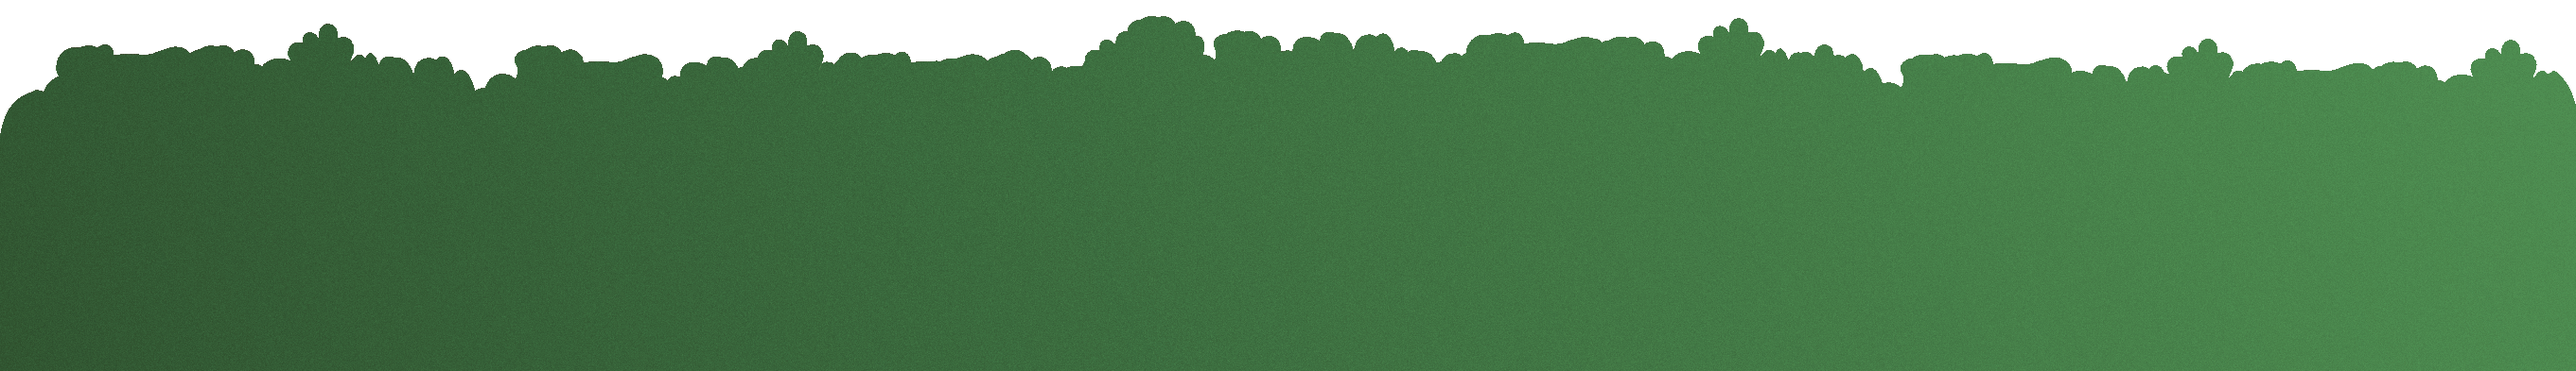
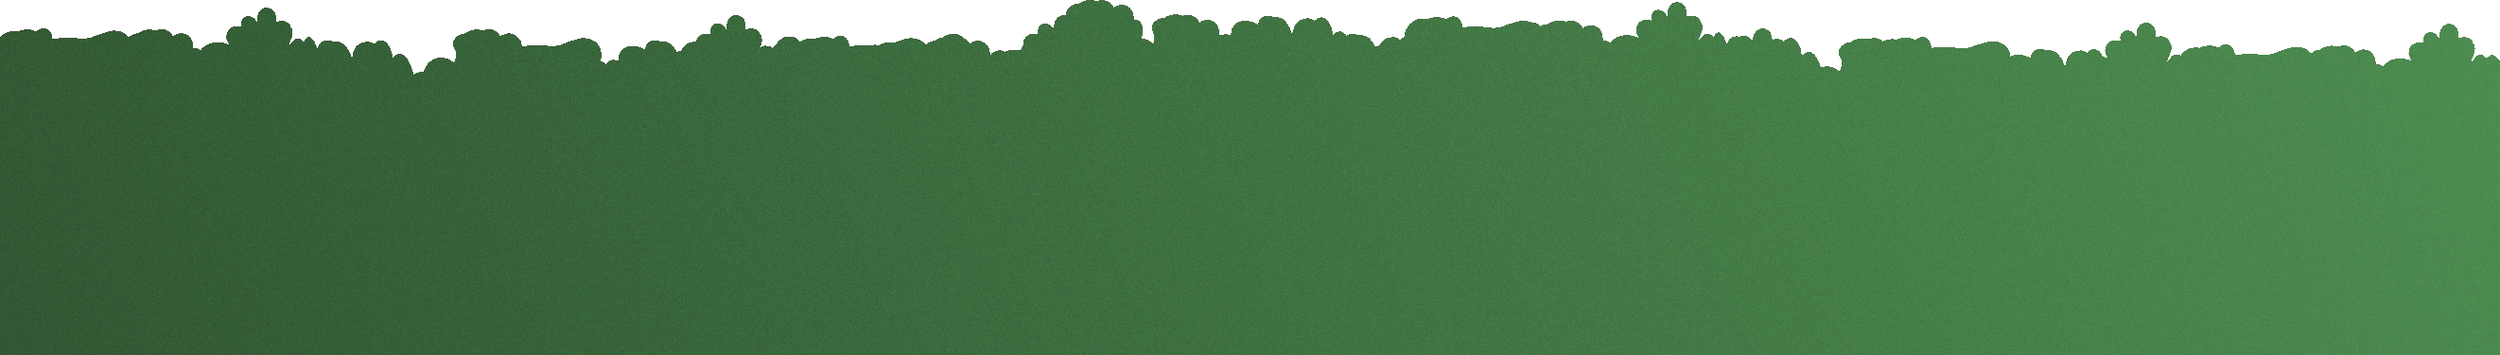
medai query nonesense

Changed region(s): [[0.0, 0.0, 1.0, 0.2926]]

diff --git a/falcao/css/media-queries-large.css b/falcao/css/media-queries-large.css
@@ -7,43 +7,22 @@
 
 /*-------------SMALL SCREEN HEIGHT-----------------------600 TO 1099*/
 
-@media screen and (min-width: 992px) and (max-width: 1181px), (min-height: 600px) and (max-height: 900px){
-#cornfield{
-top: 610px;
-}
-}
 
-@media screen and (min-width: 1181px) and (max-width: 1380px), (min-height: 600px) and (max-height: 900px){
-#cornfield{
-top: 640px;
-}
-}
 
-@media screen and (min-width: 1381px) and (max-width: 1510px), (min-height: 600px) and (max-height: 900px){
-#cornfield{
-top: 660px;
-}
-}
 
-@media screen and (min-width: 1511px) and (max-width: 1700px), (min-height: 600px) and (max-height: 900px){
+
+@media screen and (min-width: 2128px) and (max-width: 2400px), (min-height: 600px) and (max-height: 900px){
 #cornfield{
-top: 668px;
-width: 1500px;
+top: 670px;
+width: 1300px;
 right:0px;
+overflow: hidden;
 }
 }
 
-@media screen and (min-width: 1701px) and (max-width: 1800px), (min-height: 600px) and (max-height: 900px){
+@media screen and (min-width: 2028px) and (max-width: 2127px), (min-height: 600px) and (max-height: 900px){
 #cornfield{
-top: 690px;
-width: 1500px;
-right:0px;
-}
-}
-
-@media screen and (min-width: 1801px) and (max-width: 1931px), (min-height: 600px) and (max-height: 900px){
-#cornfield{
-top: 700px;
+top: 740px;
 width: 1500px;
 right:0px;
 }
@@ -57,20 +36,56 @@ right:0px;
 }
 }
 
-@media screen and (min-width: 2028px) and (max-width: 2127px), (min-height: 600px) and (max-height: 900px){
+@media screen and (min-width: 1801px) and (max-width: 1931px), (min-height: 600px) and (max-height: 900px){
 #cornfield{
-top: 740px;
+top: 700px;
 width: 1500px;
 right:0px;
 }
 }
 
-@media screen and (min-width: 2128px) and (max-width: 2400px), (min-height: 600px) and (max-height: 900px){
+@media screen and (min-width: 1701px) and (max-width: 1800px), (min-height: 600px) and (max-height: 900px){
 #cornfield{
-top: 700px;
-width: 1300px;
+top: 690px;
+width: 1500px;
 right:0px;
-overflow: hidden;
+}
+}
+
+
+@media screen and (min-width: 1511px) and (max-width: 1700px), (min-height: 600px) and (max-height: 900px){
+#cornfield{
+top: 668px;
+width: 1500px;
+right:0px;
+}
+}
+
+@media screen and (min-width: 1381px) and (max-width: 1510px), (min-height: 600px) and (max-height: 900px){
+#cornfield{
+top: 660px;
+}
+}
+
+@media screen and (min-width: 1181px) and (max-width: 1380px), (min-height: 600px) and (max-height: 900px){
+#cornfield{
+top: 640px;
+}
+}
+
+@media screen and (min-width: 1131px) and (max-width: 1180px), (min-height: 600px) and (max-height: 900px){
+#cornfield{
+top: 610px;
+width: 1400px;
+}
+}
+
+
+
+@media screen and (min-width: 992px) and (max-width: 1130px), (min-height: 600px) and (max-height: 900px){
+#cornfield{
+top: 610px;
+width: 1200px;
 }
 }
 
@@ -81,29 +96,37 @@ overflow: hidden;
 
 
 
-@media screen and (min-width: 992px) and (max-width: 1181px), (min-height: 600px) and (max-height: 900px){
+
+
+
+
+
+
+
+
+
+@media screen and (min-width: 1900px) and (max-width: 2200px), (min-height: 600px) and (max-height: 900px){
 #treeline_1{
-  top: 730px;
+  top: 840px;
 }
 }
 
-@media screen and (min-width: 992px) and (max-width: 1381px), (min-height: 600px) and (max-height: 900px){
+@media screen and (min-width: 1900px) and (max-width: 2200px), (min-height: 600px) and (max-height: 900px){
 #treeline_2{
-  top: 750px;
+  top: 850px;
 }
 }
 
-
-@media screen and (min-width: 1181px) and (max-width: 1380px), (min-height: 600px) and (max-height: 900px){
+@media screen and (min-width: 1511px) and (max-width: 1700px), (min-height: 600px) and (max-height: 900px){
 #treeline_1{
-  top: 750px;
+  top: 800px;
 }
 }
 
 
-@media screen and (min-width: 1181px) and (max-width: 1380px), (min-height: 600px) and (max-height: 900px){
+@media screen and (min-width: 1511px) and (max-width: 1700px), (min-height: 600px) and (max-height: 900px){
 #treeline_2{
-  top: 780px;
+  top: 820px;
 }
 }
 
@@ -121,31 +144,52 @@ overflow: hidden;
 }
 }
 
-
-
-@media screen and (min-width: 1511px) and (max-width: 1700px), (min-height: 600px) and (max-height: 900px){
+@media screen and (min-width: 1181px) and (max-width: 1380px), (min-height: 600px) and (max-height: 900px){
 #treeline_1{
-  top: 800px;
+  top: 750px;
 }
 }
 
 
-@media screen and (min-width: 1511px) and (max-width: 1700px), (min-height: 600px) and (max-height: 900px){
+@media screen and (min-width: 1181px) and (max-width: 1380px), (min-height: 600px) and (max-height: 900px){
 #treeline_2{
-  top: 820px;
+  top: 780px;
 }
 }
 
-@media screen and (min-width: 1900px) and (max-width: 2200px), (min-height: 600px) and (max-height: 900px){
+@media screen and (min-width: 1100px) and (max-width: 1181px), (min-height: 600px) and (max-height: 900px){
 #treeline_1{
-  top: 840px;
+  top: 730px;
 }
 }
 
-
-@media screen and (min-width: 1900px) and (max-width: 2200px), (min-height: 600px) and (max-height: 900px){
+@media screen and (min-width: 1100px) and (max-width: 1381px), (min-height: 600px) and (max-height: 900px){
 #treeline_2{
-  top: 850px;
+  top: 750px;
+}
+}
+
+@media screen and (min-width: 1000px) and (max-width: 1099px), (min-height: 600px) and (max-height: 900px){
+#treeline_1{
+  top: 700px;
+}
+}
+
+@media screen and (min-width: 1000px) and (max-width: 1099px), (min-height: 600px) and (max-height: 900px){
+#treeline_2{
+  top: 730px;
+}
+}
+
+@media screen and (min-width: 991px) and (max-width: 999px), (min-height: 600px) and (max-height: 900px){
+#treeline_1{
+  top: 690px;
+}
+}
+
+@media screen and (min-width: 991px) and (max-width: 999px), (min-height: 600px) and (max-height: 900px){
+#treeline_2{
+  top: 710px;
 }
 }
 

diff --git a/falcao/css/media-queries-large2.css b/falcao/css/media-queries-large2.css
@@ -1,4 +1,4 @@
-@media screen and (min-width: 992px) and (max-width: 1181px), (min-height: 1100px) and (max-height: 1450px){
+/*@media screen and (min-width: 992px) and (max-width: 1181px), (min-height: 1100px) and (max-height: 1450px){
 #treeline_1{
 top: 750px;
 }
@@ -8,4 +8,4 @@ top: 750px;
 #treeline_2{
 top: 770px;
 }
-}
+}*/

diff --git a/falcao/css/main.css b/falcao/css/main.css
@@ -198,7 +198,7 @@ ________________________________________________________________________________
 	background-repeat: no-repeat;
 	background-size: cover;
 	width:100%;
-	height: 1000px;
+	height: 958px;
 	padding: 0;
 	margin: 0;
 }

diff --git a/falcao/css/media-queries.css b/falcao/css/media-queries.css
@@ -448,7 +448,7 @@ width: 0;
 
 
 
-
+/*
 @media screen and (max-width: 991px){
 #text-ingredients
 {
@@ -655,7 +655,7 @@ margin-top: 520px!important;
   }
 }
 
-
+*/
 
 @media screen and (max-width: 991px){
 #banner {
